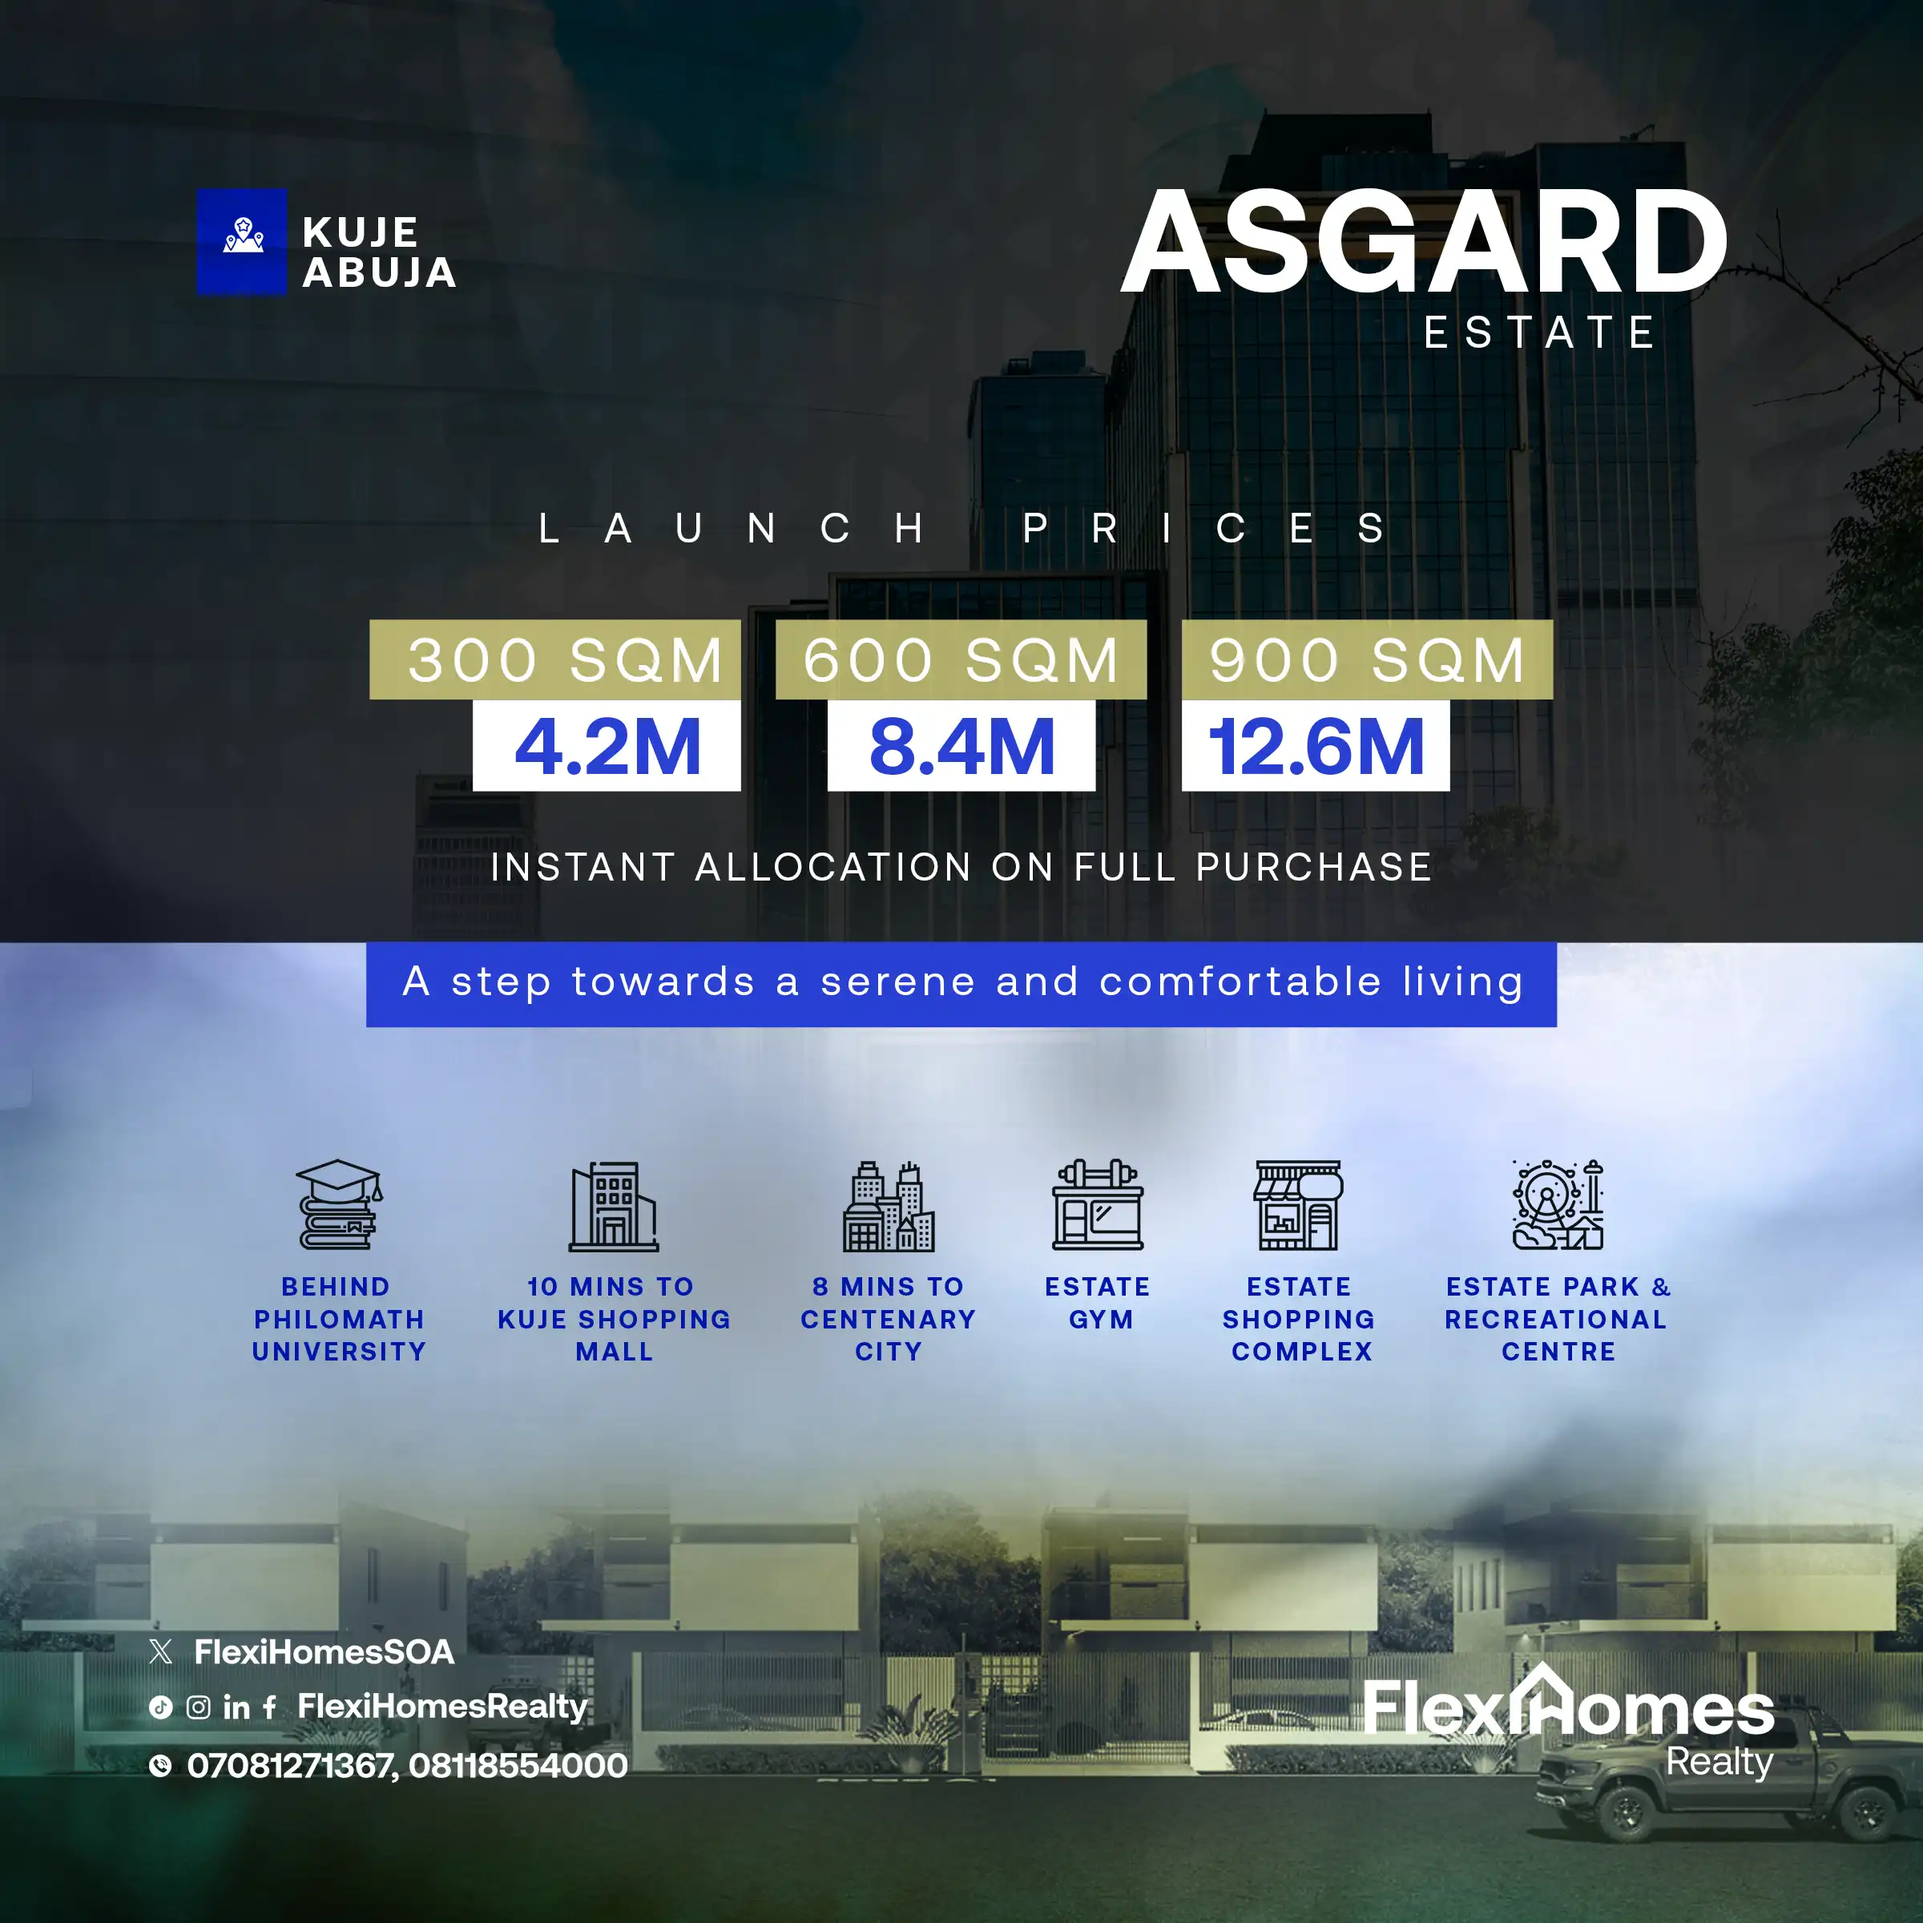
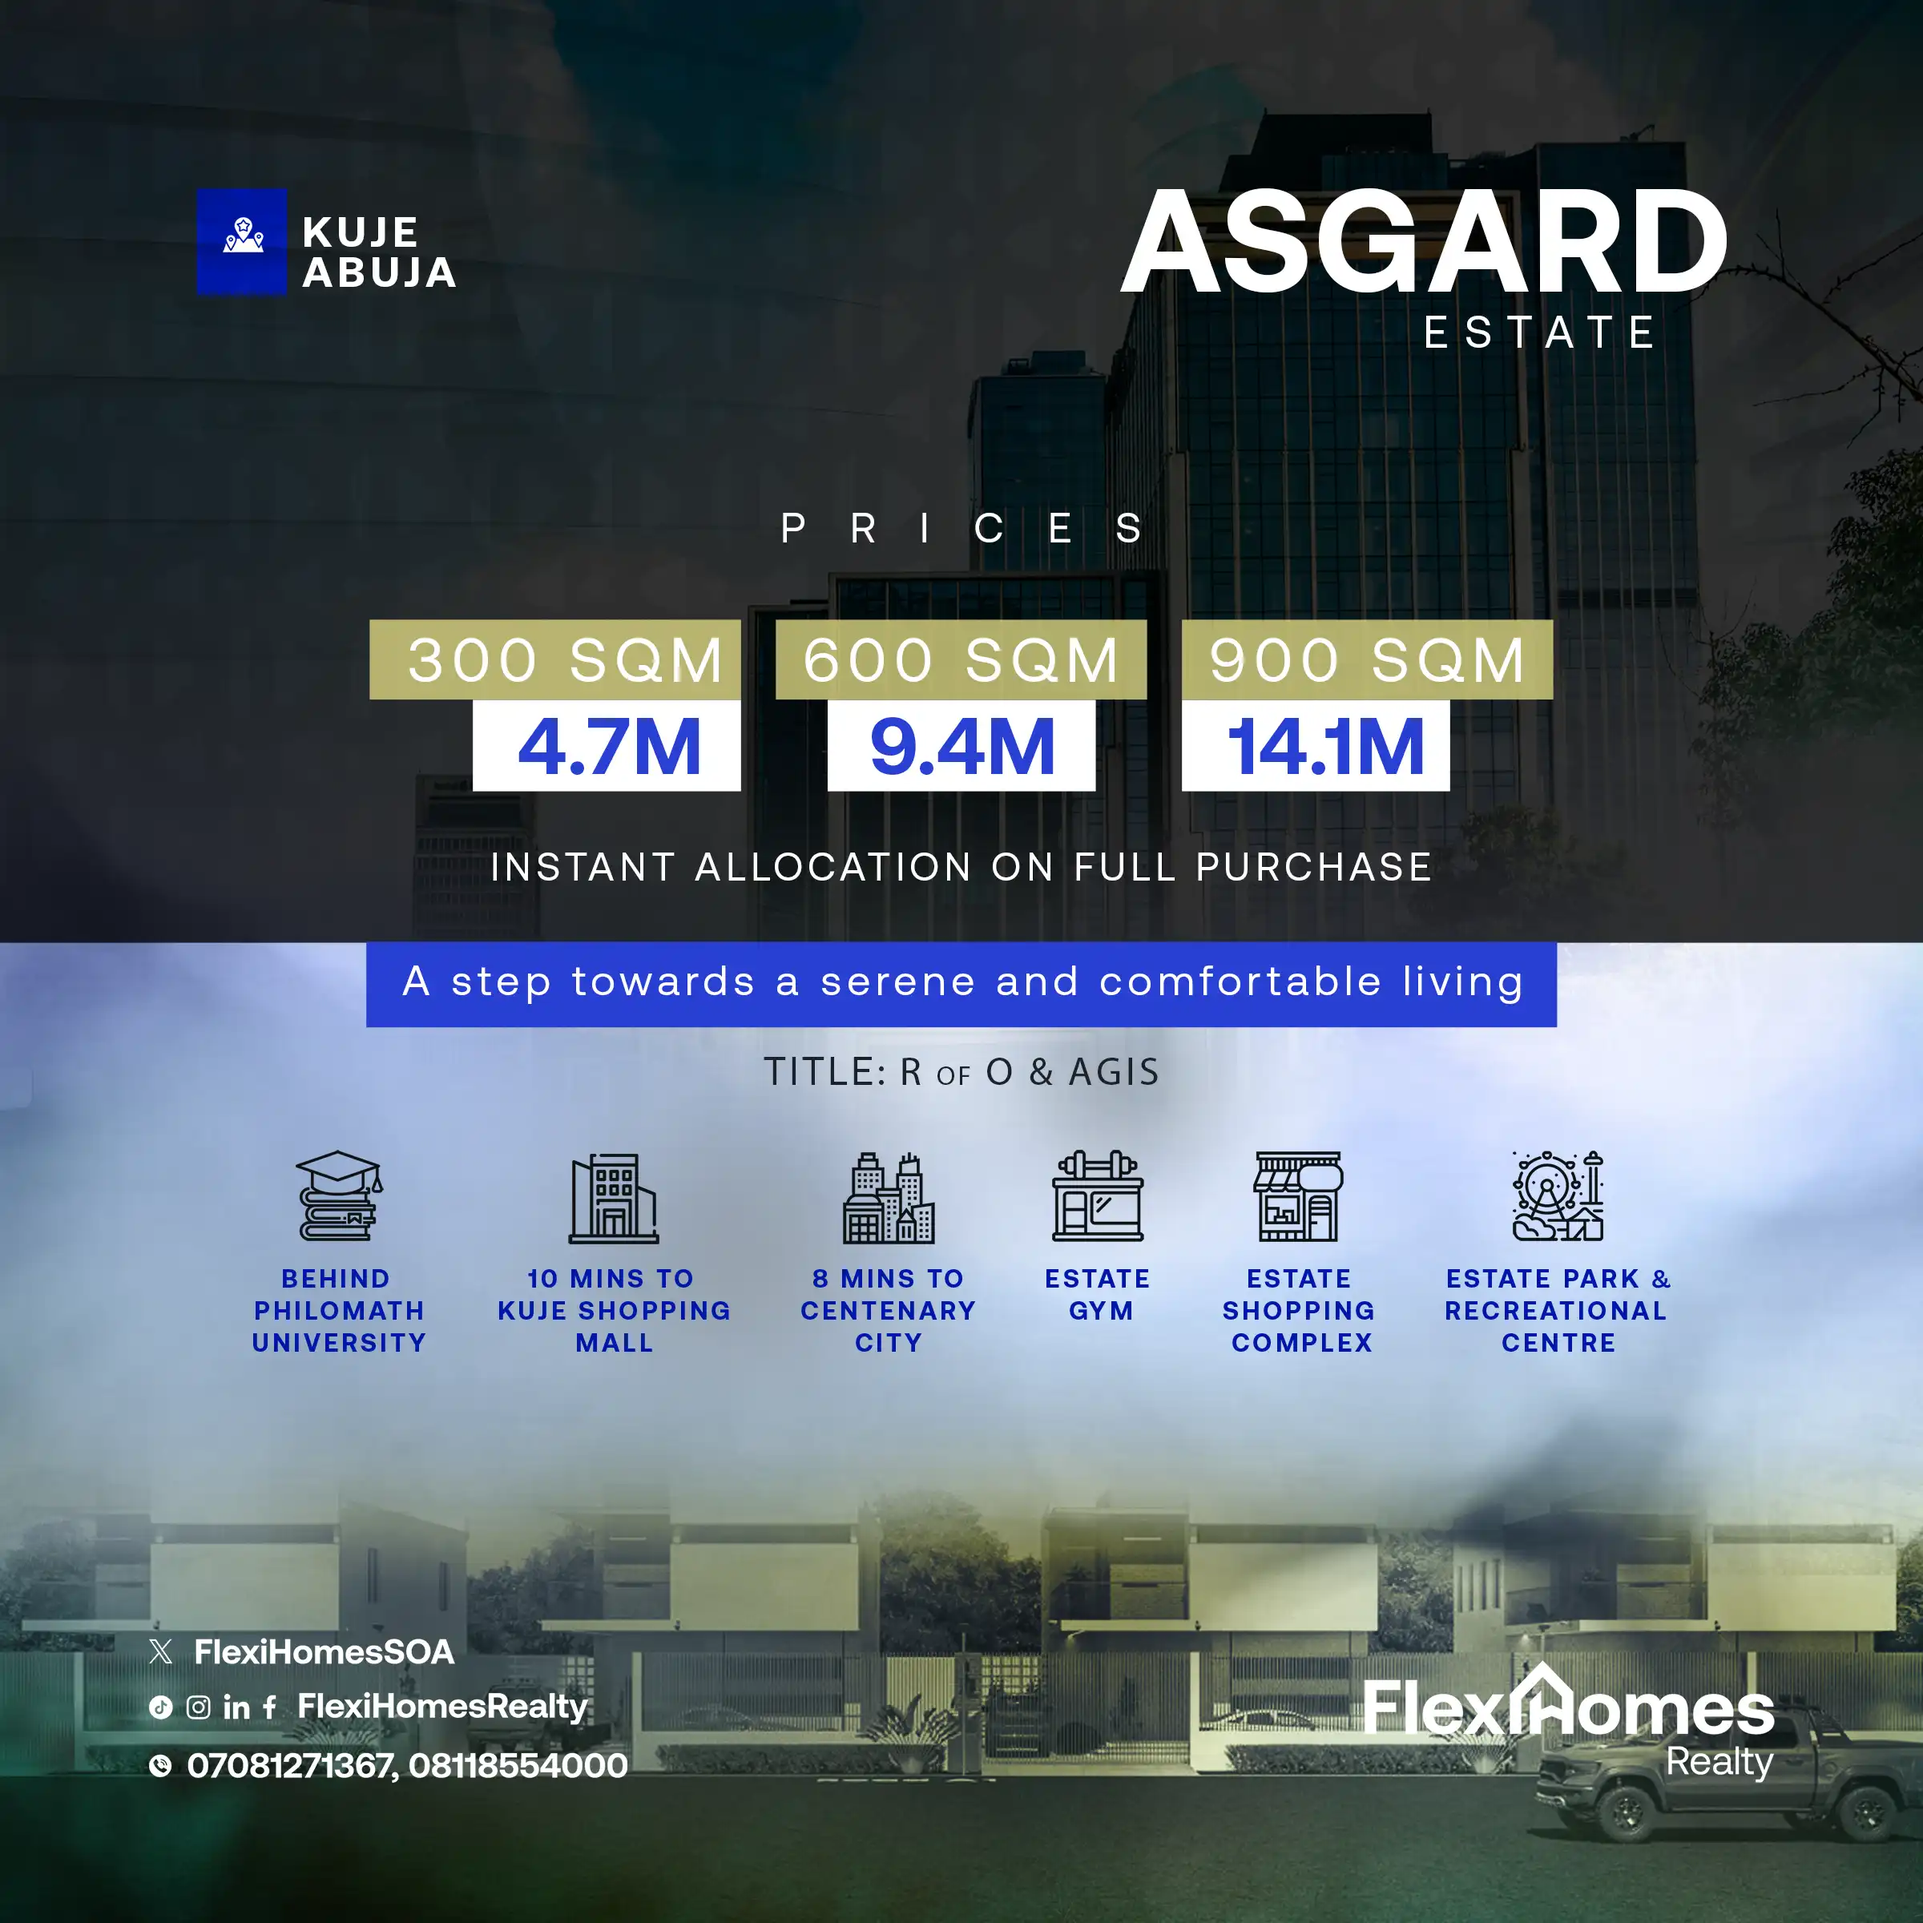
Updated property card layout and modal

diff --git a/src/components/Data.js b/src/components/Data.js
@@ -10,6 +10,12 @@ import Flexi_CapeVille from '../images/Flexi_CapeVille.webp';
 import FLEXI_FLIER_cc3 from '../images/FLEXI_FLIER_cc3.webp';
 import FLEXI_FLIER_karshi_1 from '../images/FLEXI_FLIER_karshi_1.webp';
 import FLEXI_FLIER_royal_valley from '../images/FLEXI_FLIER_royal_valley.webp';
+import FlexiHomesCC4 from '../images/FlexiHomesCC4.webp';
+import FlexiAvanzaEstate from '../images/FlexiAvanzaEstate.webp';
+import FlexiELYSIANHEIGHTS from '../images/FlexiELYSIANHEIGHTS.webp';
+import FlexiMalete from '../images/FlexiMalete.webp';
+
+
 import user from '../images/user.jpg';
 // import FlexiHomes_BANNER_MK from '../images/FlexiHomes_BANNER_MK.webp';
 
@@ -27,22 +33,29 @@ export const properties = [
       id: 1,
       image: FLEXI_FLIER_cc3,
       title: 'Capital City Phase 3 Kuje, Abuja.',
-      price: 'from ₦1.8M',
-      description: '150sqm-₦1.8M • 300sqm-₦3.6M • 600sqm-₦7.2M',
+      price: 'from ₦3.75M',
+      description: '150sqm - ₦3.75M • 300sqm - ₦7.5M • 600sqm - SOLD OUT',
+    },
+    {
+        id: 12,
+        image: FlexiHomesCC4,
+        title: 'Capital City Phase 4 Kuje, Abuja.',
+        price: 'from ₦1.8M',
+        description: '150sqm - ₦1.8M • 300sqm - ₦3.6M • 600sqm - ₦7.2M',
     },
     {
       id: 2,
       image: FLEXI_FLIER_DOHA,
       title: 'DOHA Residence IDU, Abuja',
       price: 'from ₦7.5M',
-      description: '300sqm-₦7.5M • 400sqm-₦11.2M • 600sqm-₦15M',
+      description: '300sqm - ₦7.5M • 400sqm - ₦11.2M • 600sqm - ₦15M',
     },
     {
         id: 4,
         image: FLEXI_FLIER_karshi,
         title: 'Karshi, Abuja',
         price: 'from ₦2.5M',
-        description: '300sqm-₦2.5M • 400sqm-₦3.5M • 600sqm-₦5M',
+        description: '300sqm - ₦2.5M • 400sqm - ₦3.5M • 600sqm - ₦5M',
     },
     {
         id: 5,
@@ -51,48 +64,70 @@ export const properties = [
         price: 'from ₦350K',
         description: 'Acre(3600sqm/8plots) - ₦2.5M • Plot(450sqm/50 x 100ft) - ₦350K',
     },
-    {
-        id: 6,
-        image: FLEXI_FLIER_KarshiAbuja,
-        title: 'Royal Valley Estate Ganiki, Sango, Ilorin, Kwara State.',
-        price: 'from ₦350K',
-        description: 'Full Plot(450sqm/50 x 100ft) - ₦1.3M • Half Plot(225sqm/50 x 50ft) - ₦750K',
-    },
+    // {
+    //     id: 6,
+    //     image: FLEXI_FLIER_KarshiAbuja,
+    //     title: 'Royal Valley Estate Ganiki, Sango, Ilorin, Kwara State.',
+    //     price: 'from ₦350K',
+    //     description: 'Full Plot(450sqm/50 x 100ft) - ₦1.3M • Half Plot(225sqm/50 x 50ft) - ₦750K',
+    // },
     {
         id: 7,
         image: Flexi_Asgard_Estate,
-        title: 'Kuje, Abuja',
-        price: 'from ₦4.2M',
-        description: '300sqm-₦4.2M • 600sqm-₦8.4M • 600sqm-₦12.6M',
+        title: 'Asgard Estate, Kuje, Abuja',
+        price: 'from ₦4.7M',
+        description: '300sqm - ₦4.7M • 600sqm - ₦9.4M • 600sqm - ₦14.1M',
     },
     {
         id: 8,
         image: Flexi_CapeVille,
         title: 'Katampe Hill Top, Abuja',
         price: 'from ₦50K per sqm',
-        description: '200sqm-₦10M • 300sqm-₦15M • 500sqm-₦25M',
+        description: '200sqm - ₦10M • 300sqm - ₦15M • 500sqm -  ₦25M',
     },
     {
         id: 9,
-        image: FLEXI_FLIER_cc3,
-        title: 'Capital City, Phase 3, Kuje, Abuja',
-        price: 'from ₦2.1M',
-        description: '150sqm-₦2.1M • 300sqm-₦4.2M • 600sqm-₦8.4M',
+        image: FlexiAvanzaEstate,
+        title: 'Avanza Homes, Phase II, Lugbe, Abuja',
+        price: 'Pre-launch prices from ₦6M',
+        description: '300sqm - ₦6M • 450sqm - ₦9M • 600sqm - ₦12M',
     },
     {
         id: 10,
         image: FLEXI_FLIER_karshi_1,
         title: 'Karshi, Abuja',
         price: 'from ₦2M',
-        description: '200sqm-₦2M • 250sqm-₦3M • 300sqm-₦3.3M 400sqm-₦4.5M • 500sqm-₦5M • 900sqm-₦9M',
+        description: '200sqm - ₦2M • 250sqm - ₦3M • 300sqm - ₦3.3M 400sqm - ₦4.5M • 500sqm - ₦5M • 900sqm - ₦9M',
     },
     {
         id: 11,
+        image: FlexiELYSIANHEIGHTS,
+        title: 'Elysian Heights, Kasana, Abuja',
+        price: 'from ₦18M',
+        description: '300sqm - ₦18M • 500sqm - ₦30M',
+    },
+    {
+        id: 99,
+        // new : true,
+        image: FlexiMalete,
+        title: 'Plots of Land at Malete, Kwara State University',
+        price: 'from ₦1M',
+        description: `1m/450 sqm ${<strong>(Outright Payment)</strong>} • 1.1M/450 sqm (6 Months Installment with 30% down-paymment)`,
+    },
+    {
+        id: 100,
         image: FLEXI_FLIER_royal_valley,
         title: 'Royal Valley Estate Ganiki, Sango, Ilorin, Kwara State.',
-        price: 'from ₦350K',
-        description: 'Full Plot(450sqm | 50 x 100ft)',
+        price: 'from ₦2.1M',
+        description: 'Full Plot (450sqm | 50 x 100ft)',
     },
+
+
+
+
+
+
+
     {
         id: 3,
         image: FLEXI_FLIER_Ilorin1,

diff --git a/src/components/FeaturedProperties.js b/src/components/FeaturedProperties.js
@@ -1,53 +1,88 @@
-import React from 'react';
+import React, { useState } from 'react';
 import { properties } from './Data';
-import { Link } from 'react-router-dom'; 
+import { Link } from 'react-router-dom';
 
 const FeaturedProperties = () => {
+  const [selectedImage, setSelectedImage] = useState(null);
 
+  const handleClose = () => setSelectedImage(null);
 
   return (
-    <div className="py-16 bg-gray-100">
+    <div className="py-16 bg-slate-200 relative">
       <div className="max-w-7xl mx-auto px-4 sm:px-6 lg:px-8">
         <h2 className="text-3xl font-bold text-gray-800 text-center mb-10">
           Featured Properties
         </h2>
 
         {/* Property Grid */}
-        <div className="grid gap-8 sm:grid-cols-2 lg:grid-cols-3">
+        <div className="grid gap-8 sm:grid-cols-2 lg:grid-cols-3 shadow-lg">
           {properties.map((property) => (
             <div
               key={property.id}
               className="bg-white shadow-lg rounded-lg overflow-hidden"
             >
-              <img
-                src={property.image}
-                alt={property.title}
-                className="w-full h-48 object-cover"
-                loading="lazy"
-              />
+              <div className="w-full h-64 flex items-center justify-center bg-slate-100 shadow-lg">
+                <img
+                  src={property.image}
+                  alt={property.title}
+                  className="max-h-full max-w-full object-contain"
+                  loading="lazy"
+                />
+              </div>
+
+              {/* font-semibold text-gray-900 h-12 mb-4 */}
+              {/* <div className="h-32 space-y-2">
+  <p className="text-lg font-semibold text-green-700">
+    {property.price}
+  </p>
+  <p className="text-sm text-gray-600 leading-relaxed">
+    {property.description}
+  </p> */}
               <div className="p-6">
-                <h3 className="text-xl font-semibold text-gray-900 h-12 mb-4">
+                <h3 className="text-xl font-extrabold text-blue-800 tracking-tight leading-snug mb-4 h-12">
                   {property.title}
                 </h3>
-                <div className='h-32'>
-                    <p className="text-gray-600">{property.price}</p>
-                    <p className="text-gray-500 mt-2">{property.description}</p>
+                <div className="h-32 space-y-2">
+                  <p className="text-base space-y-2 mt-10 font-semibold text-green-700">{property.price}</p>
+                  <p className="text-sm text-gray-600 leading-relaxed mt-2 space-y-2">{property.description}</p>
                 </div>
-                <button className="mt-4 bg-blue-600 text-white px-4 py-2 rounded-lg hover:bg-blue-700 bottom-2">
+                <button
+                  className="mt-4 bg-blue-600 text-white px-4 py-2 rounded-lg hover:bg-blue-700"
+                  onClick={() => setSelectedImage(property.image)}
+                >
                   View More
                 </button>
               </div>
             </div>
           ))}
         </div>
-        <div className='flex w-full justify-end my-4'>
-          <button
-            className="bg-blue-600 text-white px-6 py-3 rounded-lg hover:bg-blue-700 transition duration-300"
-          >
+
+        <div className="flex w-full justify-end my-4">
+          <button className="bg-blue-600 text-white px-6 py-3 rounded-lg hover:bg-blue-700 transition duration-300">
             <Link to="/properties">Explore Featured Properties</Link>
           </button>
         </div>
       </div>
+
+      {/* Full Image Modal */}
+      {selectedImage && (
+        <div className="fixed inset-0 z-50 flex items-center justify-center bg-black bg-opacity-80">
+          <div className="relative w-2/3 h-full bg-slate-300 rounded-lg overflow-hidden flex items-center justify-center">
+            <img
+              src={selectedImage}
+              alt="Full Property"
+              className="max-w-full max-h-full object-contain"
+            />
+            <button
+              onClick={handleClose}
+              className="absolute top-3 right-3 bg-black bg-opacity-60 text-white text-lg rounded-full w-8 h-8 flex items-center justify-center"
+            >
+              ✕
+            </button>
+          </div>
+        </div>
+      )}
+
     </div>
   );
 };

diff --git a/src/components/DisplayPromo.js b/src/components/DisplayPromo.js
@@ -1,0 +1,39 @@
+import { useState } from "react";
+import FlexiILEYAPROMO1 from '../images/FlexiILEYAPROMO1.webp';
+
+
+
+function DisplayPromo() {
+  const [showSplash, setShowSplash] = useState(true);
+
+  const handleClose = () => setShowSplash(false);
+
+  return (
+    <div className="relative">
+      {showSplash ? (
+        <div className="fixed inset-0 z-50 flex items-center justify-center bg-black bg-opacity-70">
+          <div className="relative bg-white rounded-lg shadow-lg max-w-md overflow-hidden">
+            <img
+              src={FlexiILEYAPROMO1}
+              alt="ILEYA PROMO"
+              className="w-full h-120 object-contain bg-black"
+            />
+            <button
+              onClick={handleClose}
+              className="absolute top-3 right-3 bg-black bg-opacity-60 text-white text-lg rounded-full w-8 h-8 flex items-center justify-center"
+            >
+              ✕
+            </button>
+          </div>
+        </div>
+      ) : (
+        <div className="p-4 sm:p-8">
+          <h1 className="text-xl sm:text-2xl font-bold">hello</h1>
+          <h1 className="text-base sm:text-xl">Welcome to My Website</h1>
+        </div>
+      )}
+    </div>
+  );
+}
+
+export default DisplayPromo;

diff --git a/src/pages/Homes.js b/src/pages/Homes.js
@@ -5,11 +5,16 @@ import WhyChooseUs from '../components/WhyChooseUs';
 // import Testimonials from './components/Testimonials';
 import CallToAction from '../components/CallToAction';
 import Footer from '../components/Footer';
+import DisplayPromo from '../components/DisplayPromo';
+
 
 function Homes() {
   return (
-    
-    <div className="bg-gray-200 text-gray-800">
+    <div className="relative">
+      {/* <div className='scroll bg-gray-100 absolute min-h-screen bg-white p-8 rounded-lg shadow-md w-full max-w-lg m-auto left-1/2 transform -translate-x-1/2 -translate-y-1/2'>
+        <div className=''>Welcome to my Website</div>
+      </div> */}
+      <DisplayPromo/>
       <HeroSection/>
       <FeaturedProperties/>
       <WhyChooseUs/>
@@ -17,6 +22,5 @@ function Homes() {
       <CallToAction/>
     </div>
   )
-}
-
+};
 export default Homes
